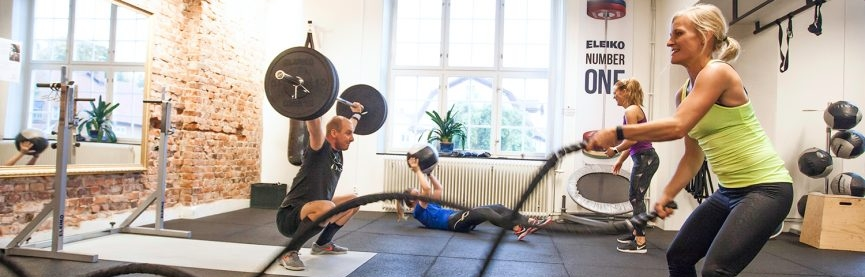
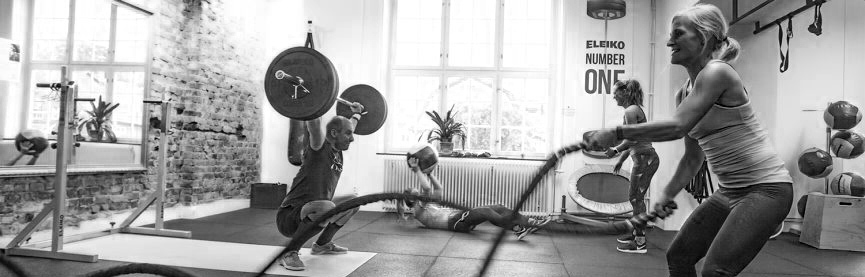
final bye bye?

diff --git a/index.html b/index.html
@@ -55,15 +55,15 @@
         </div>
         <img class="arrowdown anchor-center" src="img/icons/arrow-down.png" alt="Rehab Gym Logo">
         <div class="poster poster-1 anchor-center strip-dark">
-            <h2>TO REHABILITATE</h2>
+            <h2 class="red-text">TO REHABILITATE</h2>
             <p>Created by the weak for the weak. Created by the weak for the weak. Created by the weak for the weak. </p>
         </div>
         <div class="poster poster-2 anchor-center strip-dark">
-            <h2>IN THE CITY</h2>
+            <h2 class="blue-text">IN THE CITY</h2>
             <p>We are located in the central part of the city, very nice very good. We are located in the central part of the city, wow very nice.</p>
         </div>
         <div class="poster poster-3 anchor-center strip-dark">
-            <h2>BEST STAFF</h2>
+            <h2 class="red-text">BEST STAFF</h2>
             <p>We only hire the best of the best. We only hire the best of the best. We only hire the best of the best. We only hire the best of the best. </p>
         </div>
 
@@ -124,11 +124,11 @@
         </div>
         <div class="contact anchor-center strip-dark">
             <div id="location">
-                <h2 style="color:rgb(66, 186, 255)">Location</h2><br>
+                <h2 class="blue-text">Location</h2><br>
                 <p>West-Roldo Street 22 NYC</p>
             </div>            
             <div>
-                <h2 style="color:#fa4141">Email</h2><br>
+                <h2 class="red-text">Email</h2><br>
                 <p>rehabgym@hotmail.com</p>
             </div>
             

diff --git a/css/style.css b/css/style.css
@@ -26,31 +26,32 @@ h1{
     font-size: 5em;
     text-align: center;
 }   
-h2{
-        
+h2{      
     font-family: 'Montserrat-Regular';
     color: rgb(255, 255, 255);
     font-size: 2em;
     text-align: center;
     letter-spacing: 5px;
 }   
-p{
-        
+p{      
     font-family: 'Montserrat-Regular';
     color: rgb(209, 209, 209);
     font-size: 1em;
-    text-align: center;
-        
+    text-align: left;    
 }    
 a{
-    
     font-family: 'Montserrat-Regular';
-    color: rgb(10, 79, 168);
+    color: rgb(66, 186, 255);
     text-decoration:none;
     font-size: 1em;
-    text-align: center;
 }
 
+.blue-text{
+    color: rgb(66, 186, 255);
+}
+.red-text{
+    color: #ff4949;
+}
 /* ################ General page settings ################ */
 
 ::-webkit-scrollbar { /* Makes the scrollbar invisible .. */ 
@@ -216,14 +217,17 @@ nav img {
     background-repeat: no-repeat;
     background-position: 0 0;
     background-size: cover;
-    filter: grayscale(100%);
+    display:flex;
+    align-items: center;
+    justify-content: center;
+    flex-direction: column;
 }
 .poster p{
     padding: 1em 30%;
+    color:rgb(255, 255, 255);
 }
 .poster *{
-    color:rgb(255, 255, 255);
-    text-shadow: 0px 0px 10px #000000
+    text-shadow: 0px 0px 12px #000000;
 }
 .poster-1{
     grid-area: po1;

diff --git a/js/script.js b/js/script.js
@@ -38,3 +38,7 @@ $(document).on("click", ".session div #red", function() {
 	if(confirm("Are you sure you want to cancel this training session?"))
 		$(this).parent().parent().remove(); 
 });
+
+$(document).ready(function() {
+    console.log( "En funktion som sker vid sidladdning." );
+});
